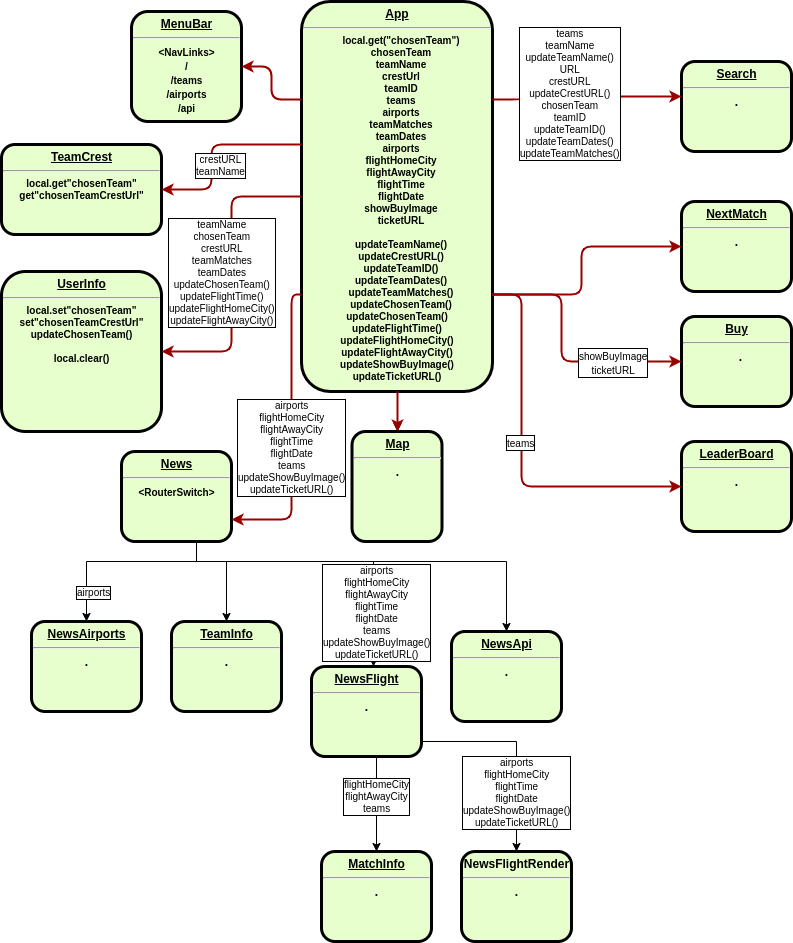
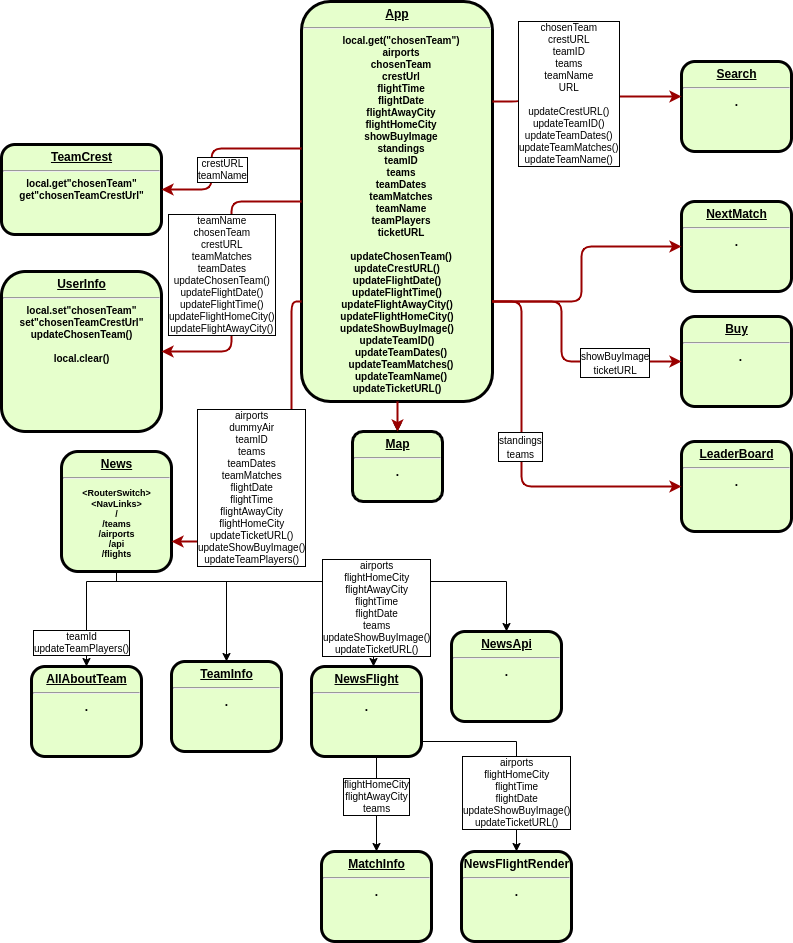
updated react map

diff --git a/sem3Front/src/components/News.js b/sem3Front/src/components/News.js
@@ -11,18 +11,18 @@ import NewsFlights from "./news/NewsFlights";
 
 function News({
   airports,
+  dummyAir,
+  teamID,
   teams,
-  flightHomeCity,
-  flightAwayCity,
-  teamMatches,
   teamDates,
-  flightTime,
+  teamMatches,
   flightDate,
+  flightTime,
+  flightAwayCity,
+  flightHomeCity,
   updateTicketURL,
   updateShowBuyImage,
-  dummyAir,
   updateTeamPlayers,
-  teamID
 }) {
   console.log("News");
   return (
@@ -31,8 +31,8 @@ function News({
         <div className="newsContainer">
           <div>
             <ul className="newsHeader">
-              {teamID.teamID > 0 && 
-              <div>
+              {teamID.teamID > 0 &&
+                <div>
                   <li>
                     <NavLink exact activeClassName="active" to="/flights">
                       Flights
@@ -43,7 +43,7 @@ function News({
                       Players
                     </NavLink>
                   </li>
-              </div>
+                </div>
               }
               <li>
                 <NavLink exact activeClassName="active" to="/api">
@@ -98,8 +98,8 @@ function News({
               </Route>
               <Route exact path="/all">
                 <AllAboutTeam
-                  updateTeamPlayers={updateTeamPlayers}
                   teamID={teamID}
+                  updateTeamPlayers={updateTeamPlayers}
                 />
               </Route>
               <Route exact path="/">
